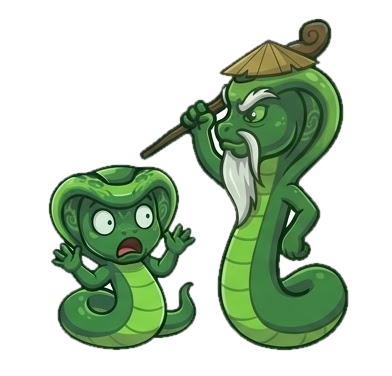
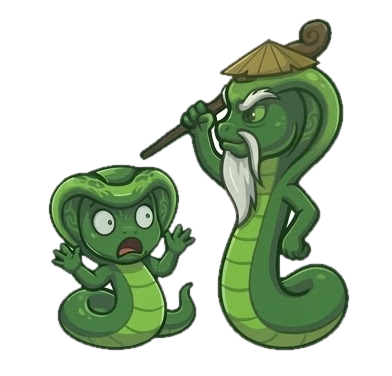
Scene v2: wise drawn bigger (WISE_UP) so the little dragon keeps home size; H3 v6 re-cut (611x612); handoff NEWEST-24
Claude-Session: https://claude.ai/code/session_01RZw5areh3ifPbwgxH92XPg

diff --git a/app/src/main/java/eu/kanade/tachiyomi/ui/reader/RReaderCobraView.kt b/app/src/main/java/eu/kanade/tachiyomi/ui/reader/RReaderCobraView.kt
@@ -723,7 +723,7 @@ class RReaderCobraView(
         val s = 100f * d * sizeK // little dragon size (same as the home dragon)
         val kw = s / 384f // screen px per canvas px, both dragons
         val smallLeft = 4f * d
-        val stageH = 500f * kw + 16f * d
+        val stageH = (H3_FLOOR + 8f * WISE_UP + 14f) * kw + 16f * d
         val stageTop = ((height - stageH) * yFrac).coerceAtLeast(0f)
         val ground = stageTop + stageH
         val smallCx = smallLeft + s / 2f
@@ -740,12 +740,12 @@ class RReaderCobraView(
             if (bothMode) {
                 val wiseCx = smallCx + (H3_WISE_CX - H3_SMALL_CX) * kw
                 if (speaker == WISE) {
-                    drawBubble(canvas, wiseCx, ground - 420f * kw, ground - 150f * kw)
+                    drawBubble(canvas, wiseCx, ground - 420f * kw * WISE_UP, ground - 150f * kw * WISE_UP)
                 } else {
-                    drawBubble(canvas, smallCx, ground - 8f * kw - 250f * kw, ground - 8f * kw - 120f * kw)
+                    drawBubble(canvas, smallCx, ground - 8f * kw * WISE_UP - 325f * kw, ground - 8f * kw * WISE_UP - 160f * kw)
                 }
             } else if (speaker == WISE && !wiseRect.isEmpty) {
-                drawBubble(canvas, wiseRect.centerX(), ground - 420f * kw, ground - 150f * kw)
+                drawBubble(canvas, wiseRect.centerX(), ground - 420f * kw * WISE_UP, ground - 150f * kw * WISE_UP)
             } else if (!smallRect.isEmpty) {
                 drawBubble(canvas, smallRect.centerX(), smallRect.top + s * 0.08f, smallRect.bottom - s * 0.2f)
             }
@@ -759,7 +759,7 @@ class RReaderCobraView(
             if (look.both) {
                 val bb = bitmapFor(look.wise) ?: return
                 val left = smallCx - H3_SMALL_CX * kw
-                val top = ground - 8f * kw - H3_FLOOR * kw
+                val top = ground - 8f * kw * WISE_UP - H3_FLOOR * kw
                 val r = RectF(left, top, left + bb.width * kw, top + bb.height * kw)
                 canvas.drawBitmap(bb, null, r, bitmapPaint)
                 if (record) {
@@ -778,8 +778,8 @@ class RReaderCobraView(
             }
             val wb = bitmapFor(look.wise)
             if (wb != null && (wiseSlide > 0f || exitT > 0f)) {
-                val ww = wb.width * kw
-                val wh = wb.height * kw
+                val ww = wb.width * kw * WISE_UP
+                val wh = wb.height * kw * WISE_UP
                 val restCx = smallCx + (H3_WISE_CX - H3_SMALL_CX) * kw
                 val cx = restCx + ((1f - wiseSlide) + exitT) * (width - restCx + ww)
                 val r = RectF(cx - ww / 2f, ground - wh, cx + ww / 2f, ground)
@@ -902,11 +902,14 @@ class RReaderCobraView(
 
         private fun ids(vararg v: Int) = v
 
-        // H3 pictures (both dragons, common canvas 521x493, from branding/tools/make_h3_cells.py): floor line, wise coil
-        // centre and little dragon hood centre, in bitmap px (the wise is as tall as in the G walk, so the scale is the same)
-        private const val H3_FLOOR = 481f
-        private const val H3_WISE_CX = 392f
-        private const val H3_SMALL_CX = 179f
+        // H3 pictures (both dragons, common canvas 611x612, from branding/tools/make_h3_cells.py): floor line, wise coil
+        // centre and little dragon hood centre, in bitmap px. They are cut so the little dragon has exactly the size of the
+        // lone one (r_j_*, 333 px), which makes the wise 1.2447x taller than the G walk sprites: those are drawn bigger by
+        // WISE_UP in the scene so the wise does not change size when the H3 pictures take over.
+        private const val H3_FLOOR = 600f
+        private const val H3_WISE_CX = 480f
+        private const val H3_SMALL_CX = 162f
+        private const val WISE_UP = 1.2447f
 
         /**
          * R scene v2 (sheets of 2026-11-22), the H3 version. 0 the little one peeks (J0); the wise one walks in (G) and

diff --git a/branding/tools/make_h3_cells.py b/branding/tools/make_h3_cells.py
@@ -18,7 +18,7 @@ import numpy as np
 from PIL import Image, ImageFilter
 from scipy import ndimage as ndi
 
-SRC = 'branding/mascot-models/new-sheets-2026-11-22/H3-contact-both-dragons-4x2-565719.jpg'
+SRC = 'branding/mascot-models/new-sheets-2026-11-22/H3-v6-565740.jpg'  # owner's last version (565719 was the first)
 CUT = 'branding/mascot-models/cutouts-2026-11-22/'
 RES = 'app/src/main/res/drawable-nodpi/'
 COLS, ROWS = 4, 2
@@ -26,7 +26,8 @@ PADX = 24            # the box is wider than the grid cell: tails, stars and the
 BOX_H = 376
 ROW_Y0 = (8, 392)    # box top of row 1 / row 2 (sheet px); row 2 is corrected by ROW_DY below
 WHITE = 225          # all channels above this = page white
-WISE_H_OUT = 436.0   # wise height (hat top -> floor) in the output sprites = the wise height of the G walk sprites, so the scene draws both at the same scale
+SMALL_HOME_H = 333.0  # height of the lone little dragon sprites (r_j_*, r_mascot_*): the little one of H3 (cell 1) gets exactly this size
+G_WISE_H = 436.0      # height of the G walk sprites: the scene scales them by (wise height here / 436), see WISE_UP in RReaderCobraView
 MARGIN = 6
 HOLE_ZONE = 120      # closed white holes this close to the floor line are coil holes and get cleared
 HOLE_MIN = 60
@@ -104,6 +105,17 @@ def to_img(rgb, fg):
     return img
 
 
+def small_height(img):
+    """height of the little dragon in a cell: the component that holds the leftmost opaque pixel (the cane is a separate piece)."""
+    a = np.array(img.getchannel('A')) > 128
+    lab, _ = ndi.label(ndi.binary_dilation(a, iterations=1))
+    xs = np.nonzero(a.any(axis=0))[0]
+    col = np.nonzero(a[:, xs.min()])[0]
+    comp = lab == lab[col[0], xs.min()]
+    ys = np.nonzero((comp & a).any(axis=1))[0]
+    return int(ys.max() - ys.min())
+
+
 def wise_right_edge(img):
     """right edge of the wise dragon's coil (the rightmost drawn pixel of the bottom rows; the little dragon is always left of it)."""
     a = np.array(img.getchannel('A')) > 128
@@ -171,8 +183,9 @@ def run(preview=False):
     h_ref = float(np.median(heights))
     tx = float(np.median([e for ((e, _), _) in info]))
     fy = float(np.median([fl for ((_, fl), _) in info]))
-    k = WISE_H_OUT / h_ref
+    k = SMALL_HOME_H / small_height(cells[0])  # the little dragon of cell 1 = the home dragon's size
     print('wise height per cell', heights, 'right edge', [e for ((e, _), _) in info], '-> out scale', round(k, 4))
+    print('wise height in the output', round(h_ref * k), '-> WISE_UP (draw the G walk bigger by this)', round(h_ref * k / G_WISE_H, 4))
     big = 80
     placed = []
     for i, img in enumerate(cells):

diff --git a/YOKAI_HANDOFF.md b/YOKAI_HANDOFF.md
@@ -16,6 +16,16 @@ Last updated: 2026-11-22 (see NEWEST-22).
 - Anything the owner sends (images, ideas) is recorded in the repo first, then used. Phrases the mascots say are my drafts, NOT approved.
 - Never write down or use the GitHub tokens he pasted in chat earlier; if access is lost, ask him.
 
+## NEWEST-24 2026-11-22 10:56 (ninth account, owner at 94% credit): START HERE, then NEWEST-23 (its numbers 521x493 / 392 / 179 / 436 are OUTDATED, use these)
+- **Owner chose option 1: make the WISE bigger in the scene, keep the little dragon at home size.** Reason: the generator kept returning the same H3 (little dragon 57-60% of the wise, wanted 75%); five resends did not change it. Last sheet used: `new-sheets-2026-11-22/H3-v6-565740.jpg` (only cell 1 differed: small 187 px instead of 179). Nothing is built, nothing is compiled, nobody dispatched a build (owner decides: wait for him to say "بيلد").
+- **Cutter** `branding/tools/make_h3_cells.py` (`SRC` = the v6 jpg): now scales every cell so the little dragon of cell 1 is exactly 333 px tall (= lone little dragon sprites `r_j_*`): out scale 1.8, canvas 611x612, wise height 543 px. Prints `WISE_UP` = wise height / 436 = **1.2447**. All 8 `r_h3_*.webp` re-cut (checked on dark and light previews: clean, no stray white). Constants measured on the new sprites and put in the `RReaderCobraView` companion: `H3_FLOOR = 600`, `H3_WISE_CX = 480`, `H3_SMALL_CX = 162`, `WISE_UP = 1.2447`.
+- **Kotlin** (`RReaderCobraView.drawSceneV2/drawLookV2`): the lone wise (G walk) is drawn `WISE_UP` times bigger (`ww/wh`), the H3 bitmap at plain `kw`; the floor line of both is `ground - 8*kw*WISE_UP`; stage height = `(H3_FLOOR + 8*WISE_UP + 14)*kw + 16dp`; wise bubble anchors scaled by `WISE_UP`; the wise rests `(480-162)*kw` right of the little one's centre so the H3 little dragon lands where the lone one stood. Result: the little dragon never changes size, the wise is ~25% taller than before in the whole v2 scene (about 144 dp instead of 113 dp at the default size; the owner was told it gets taller). The "cobra size" setting scales everything if it is too big.
+- **Not verified on a phone (nobody can): check** that the stage is not cut at the top (cane curl in H3-2), that the wise does not jump when H3-1 fades in over the G walk, bubble positions (wise bubble above his head, small bubble above the little one), the exit (wise walks off right with G frames, little one slides out left), memory (8 bitmaps of 611x612 = 12 MB).
+- **If CI fails** read the annotations (see the archive file): suspects only in `RReaderCobraView.kt`: `Look`, `beginFade`, `drawLookV2` (`return` inside `try`), `Step(both = ...)`, `H3_*` / `WISE_UP` constants.
+- **Image problems that are NOT fixed (fixed by the cutter instead)**: row 2 of the sheet is ~2% smaller (rescaled), the wise slides up to 26 px sideways (aligned on his right coil edge), cane tip of cell 6 touches cell 7 in some versions (handled by connected pieces), stray white gaps in cell 1 (cleared by `SEEDS`, re-check the seed points if cell 1 of a new sheet changes).
+- **Owner pending**: say "بيلد" (then dispatch ONE build on the last commit, none while another runs, report the result), approve the phrases (lecture line "ده جزاء اللي ما يسمعش الكلام. ريّح عينيك واشرب مية!" and wind-up line are drafts), delete the pasted GitHub token, make the repo private again (it holds the signing key).
+- **Do NOT**: regenerate sheets again, redo the cut, or touch the settings: all done. Next account: read this, `git ls-remote origin fix/stats-and-name-clean` (the stop hook that says "unpushed commits" is a false alarm of the shallow clone), wait for the owner. If he says "بيلد": `gh workflow run build_r.yml --ref fix/stats-and-name-clean`, poll, fix errors push by push.
+
 ## NEWEST-23 2026-11-22 (ninth account, H3 scene): START HERE, then NEWEST-22
 - Done (branch `fix/stats-and-name-clean`, NOT compiled, NO build dispatched: the owner decides): H3 replaces the whole stick scene in `RReaderCobraView` (switch `r_scene_v2` unchanged; the old scene is untouched).
 - **Cutter** `branding/tools/make_h3_cells.py` (fixed grid 4x2, same crop box for all cells = cell + 24 px each side, row 2 moved up 5 px to share the floor line; background = white connected to the crop border, so eyes/beard keep their white; closed coil holes cleared; the two stray white gaps of cell 1 cleared by seed points `SEEDS`; each piece of drawing belongs to the cell that holds most of it, so the cane tip of cell 6 that crosses the grid is kept). Then every cell is scaled so the wise is 436 px tall (= the G walk sprites, same pixel scale as the scene), row 2 is scaled by about +3% (it was drawn 3% smaller) and every cell is shifted so the wise's right coil edge is fixed (the wise slid up to 25 sheet px sideways). Output: `r_h3_0..7.webp`, all 521x493, floor at y=481, wise coil centre x~392, little hood centre x~179. Run from the repo root: `python3 -I branding/tools/make_h3_cells.py --preview` (preview PNGs go to /tmp/h3). If the owner regenerates H3: replace the jpg in `new-sheets-2026-11-22/`, change `SRC`, re-run, then re-measure `H3_FLOOR / H3_WISE_CX / H3_SMALL_CX` (printed by the script's last lines plus a quick look) in `RReaderCobraView` companion.

diff --git a/branding/mascot-models/new-sheets-2026-11-22/INDEX.md b/branding/mascot-models/new-sheets-2026-11-22/INDEX.md
@@ -12,3 +12,5 @@
 | `G-redo-...-565698`, `G-try3-...-565704`, `G-wise-walk-4x2-565683`, `I2-wise-drag-...-565685`, `I2-redo-...-565699`, `H1`/`J` first tries | earlier tries | not usable, kept for history |
 
 Pending from the owner: a TRUE profile walk (prompt `branding/prompts/G_WALK_PROFILE_FINAL_2026-11-22.txt`).
+
+`H3-v6-565740.jpg` = the owner's last H3 (cell 1 little dragon slightly bigger): the one `make_h3_cells.py` cuts now. The other H3 versions (565719, 565722, 565736, 565737, 565739) are the same sheet; only 565719 and v6 are kept in the repo.
